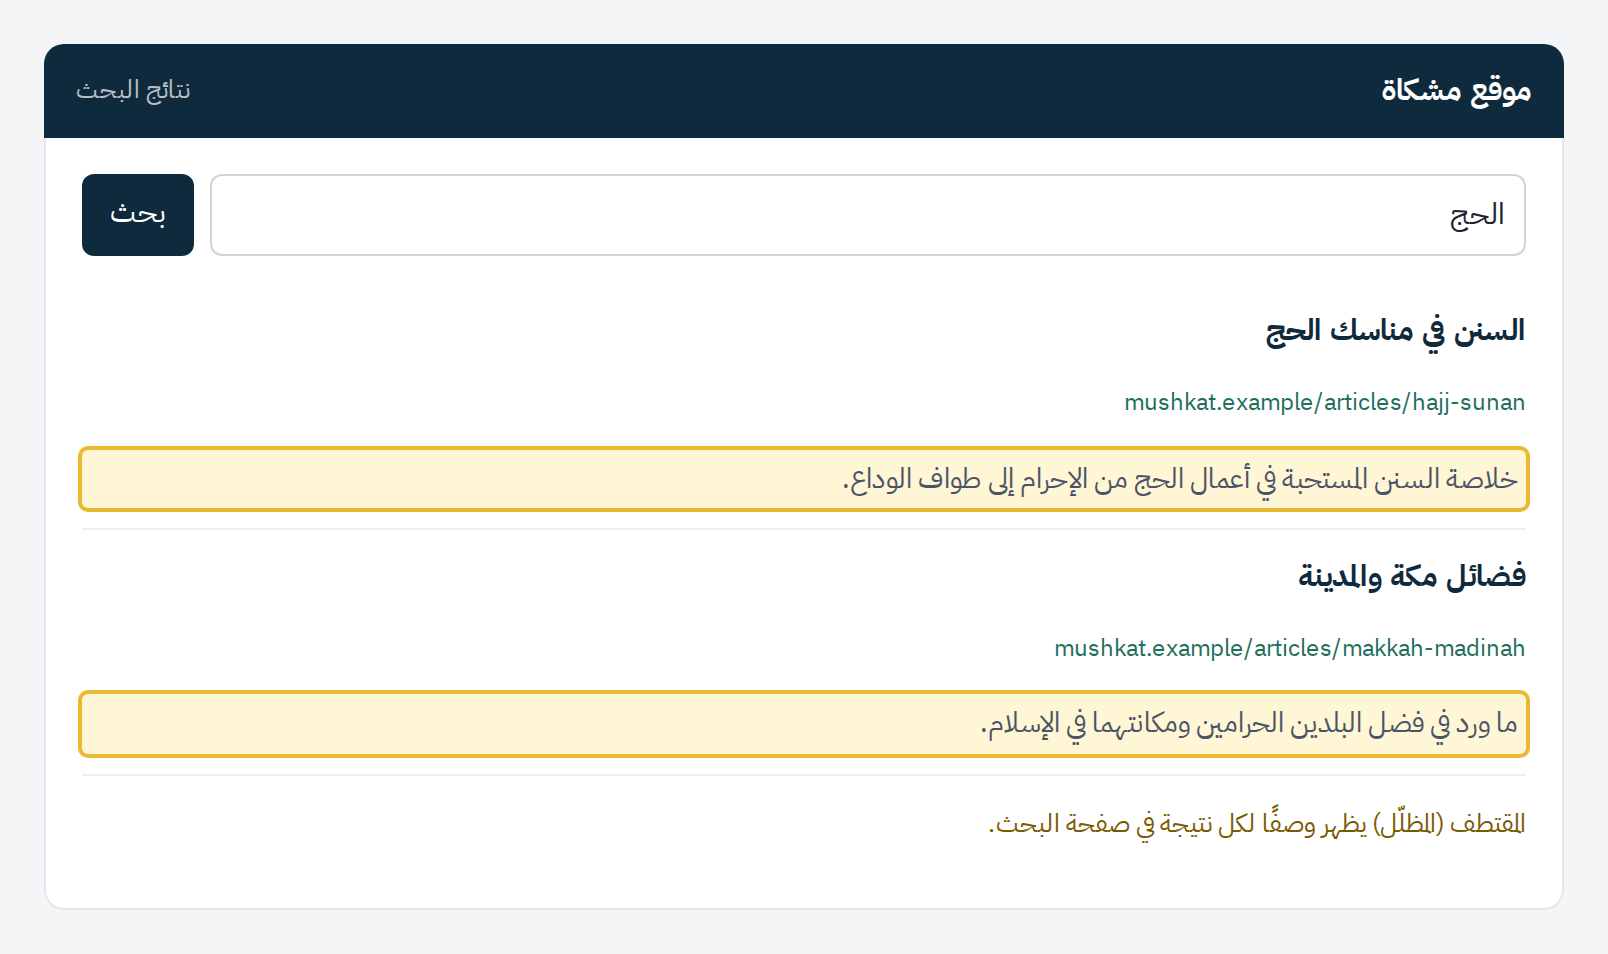
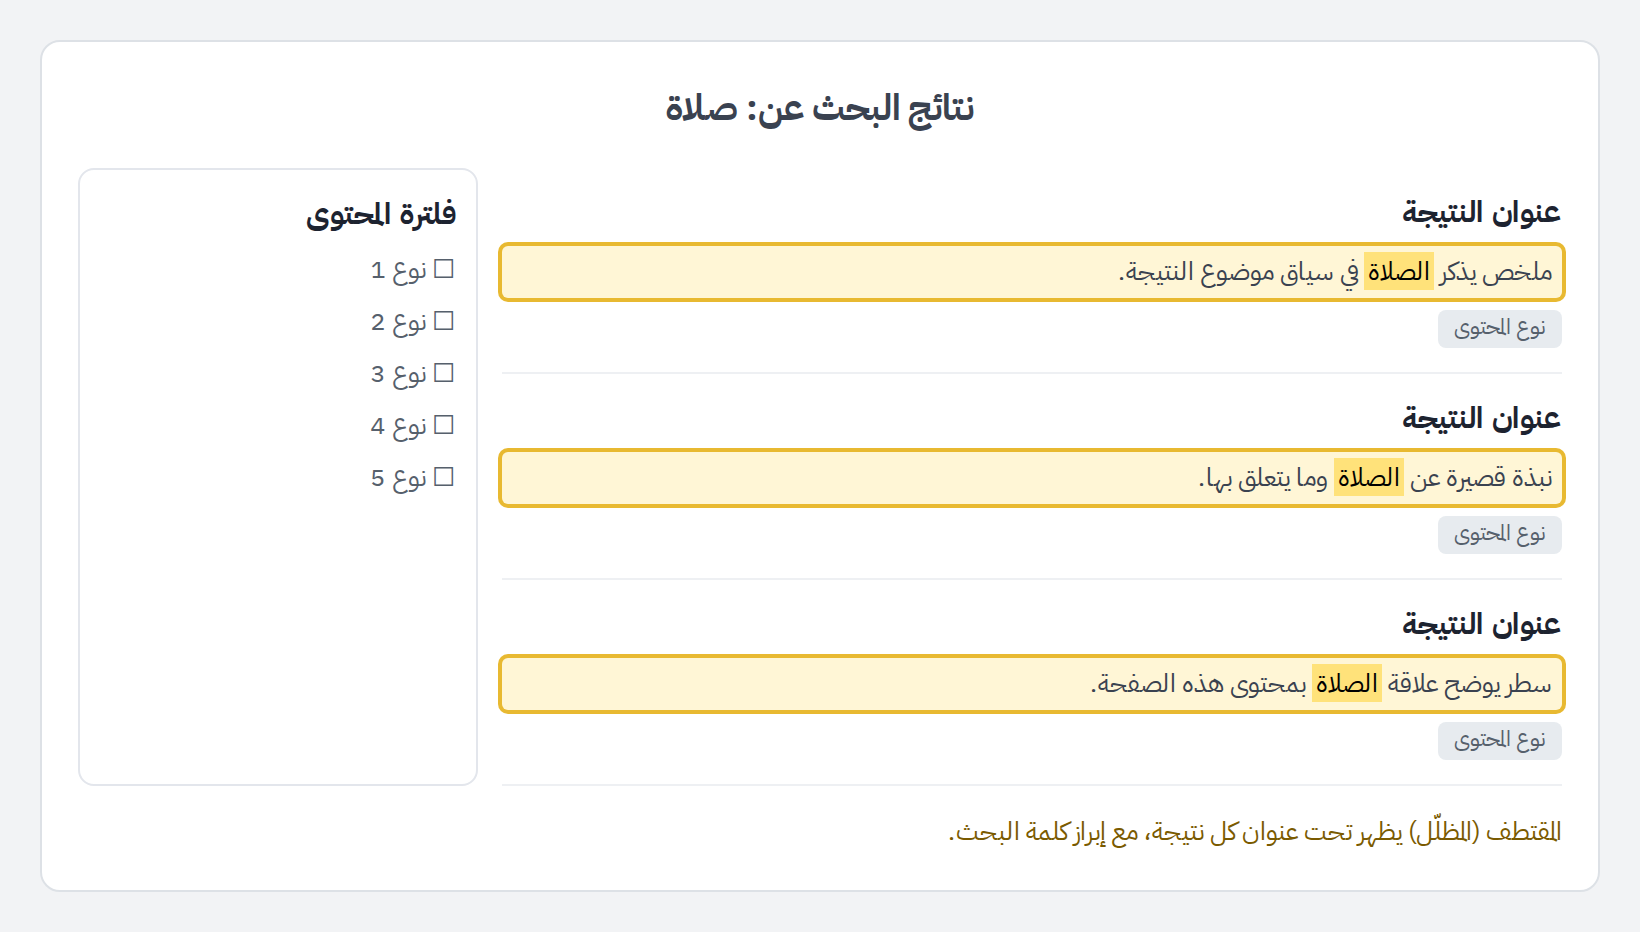
Excerpt guide: generic wireframes for home sections, search results and list pages
Claude-Session: https://claude.ai/code/session_01REcZEzRQAgppssyGFfEfaD

diff --git a/docs/excerpt.html b/docs/excerpt.html
@@ -40,17 +40,22 @@ figcaption{font-size:13px;color:var(--muted);text-align:center;margin-top:6px}
 <figcaption>صندوق المقتطف في صفحة إضافة مقالة</figcaption>
 </figure>
 
-<p>بحسب القالب الذي يستخدمه موقعك، يمكن أن تظهر المقتطفات في صفحات مختلفة (نتائج البحث، والأرشيف، وغيرها).</p>
+<p>بحسب القالب الذي يستخدمه موقعك، يمكن أن تظهر المقتطفات في صفحات مختلفة (الصفحة الرئيسية، ونتائج البحث، وصفحات أنواع المحتوى، وغيرها).</p>
 
 <div class="ex2">
 <figure>
-<img src="img/excerpt-archive.png" width="804" height="410" alt="صفحة أرشيف تعرض مقالتين، وتحت عنوان كل منهما مقتطفها">
-<figcaption>مثال: المقتطف تحت عنوان المقالة في صفحة الأرشيف</figcaption>
+<img src="img/excerpt-home.png" width="820" height="394" alt="مخطط قسم في الصفحة الرئيسية: بطاقة كبيرة وبطاقات صغيرة، وتحت عنوان كل بطاقة المقتطف">
+<figcaption>مثال: المقتطف في بطاقات أقسام الصفحة الرئيسية</figcaption>
 </figure>
 <figure>
-<img src="img/excerpt-search.png" width="804" height="477" alt="صفحة نتائج بحث، وتحت كل نتيجة مقتطف المقالة">
-<figcaption>مثال: المقتطف وصفًا لكل نتيجة في صفحة البحث</figcaption>
+<img src="img/excerpt-search.png" width="820" height="466" alt="مخطط صفحة نتائج البحث: تحت عنوان كل نتيجة المقتطف مع إبراز كلمة البحث">
+<figcaption>مثال: المقتطف في نتائج البحث</figcaption>
 </figure>
+<figure>
+<img src="img/excerpt-list.png" width="820" height="453" alt="مخطط صفحة نوع محتوى: صفوف فيها صورة مصغرة وعنوان، وتحته المقتطف">
+<figcaption>مثال: المقتطف في صفحة قائمة نوع المحتوى</figcaption>
+</figure>
+<p class="sub" style="margin:0">تختلف أشكال القوالب، لكن مكان المقتطف ثابت: تحت عنوان المحتوى.</p>
 </div>
 
 <p>إذا كان المقتطف فارغًا، يُنشأ مقتطف تلقائيًا من أول 55 كلمة في المقالة.</p>
